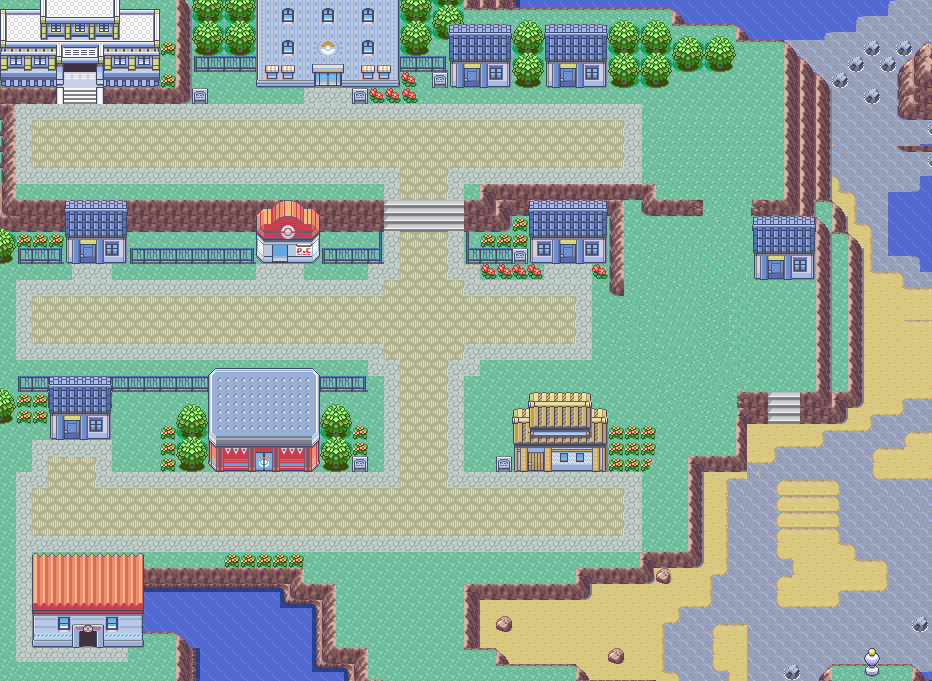
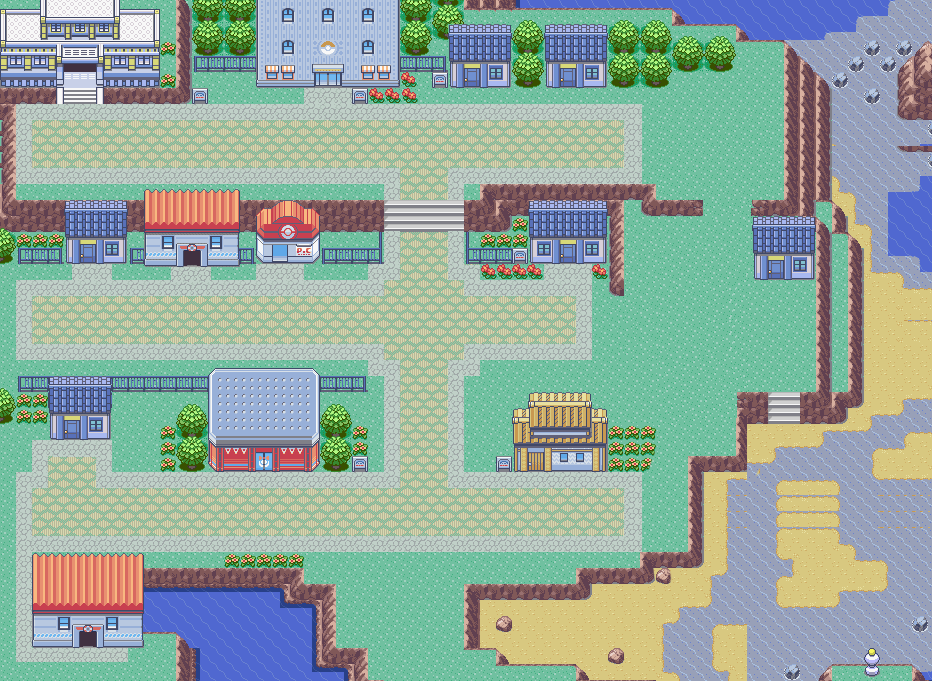
updated map, person walks to restA

Changed region(s): [[0.1556, 0.2775, 0.28, 0.4317]]

diff --git a/src/city/guis/CityGui.java b/src/city/guis/CityGui.java
@@ -34,6 +34,7 @@ import city.Government;
 import city.Scenario;
 import city.TimeManager;
 
+
 //Import Java utilities
 import javax.imageio.ImageIO;
 import javax.swing.*;
@@ -50,10 +51,12 @@ import java.util.Collections;
 import java.util.Date;
 import java.util.Vector;
 
+import restaurantA.*;
 
 public class CityGui extends JFrame implements ActionListener {
 
 	Restaurant tempRes;
+	RestaurantA tempResA;
 	Bank tempBan;
 	Apartment tempApa;
 	Market tempMar;
@@ -313,7 +316,7 @@ public class CityGui extends JFrame implements ActionListener {
 		createRestaurant("Norman's Restaurant", 257, 474);
 		createBank("Aleena's Bank - North", 73, 74);
 		createBank("Aleena's Bank - South", 16, 619);
-		createRestaurantA("Aleena Restaurant", 257, 474);
+		createRestaurantA("Aleena Restaurant", 183, 266);
 		createMarket("Aleena's Market", 280, 265);
 		createApartment("The Chris Apartment Complex", 319, 90);
 
@@ -407,7 +410,7 @@ public class CityGui extends JFrame implements ActionListener {
 				if ((x<314) && (y<468) && (x>210) && (y>370))
 				{
 					for (Building b: buildings){
-						if (b.getType() == buildingType.restaurant){
+						if (b.getType() == buildingType.restaurant && b.owner.equals("Norman")){
 							Restaurant r = (Restaurant) b;
 							r.setPaymentFund(GovernmentFunds);
 							tempRes = r;
@@ -433,7 +436,34 @@ public class CityGui extends JFrame implements ActionListener {
 					}
 				}
 
+				if ((x<239) && (y<264) && (x>145) && (y>190))
+				{
+					for (Building b: buildings){
+						if (b.getType() == buildingType.restaurant && b.owner.equals("Aleena")){
+							RestaurantA r = (RestaurantA) b;
+							//r.setPaymentFund(GovernmentFunds);
+							tempResA = r;
+							r.gui.setVisible(true);
+							cityGui.setAlwaysOnTop(false);
+							r.gui.setAlwaysOnTop(true);
+							r.gui.addWindowListener(new WindowAdapter() {
+								public void windowClosing(WindowEvent e) {
+									tempResA.gui.setAlwaysOnTop(false);
+									cityGui.setAlwaysOnTop(true);
+									cityGui.setAlwaysOnTop(false);
+									setState(Frame.NORMAL);
+								}
 
+								public void mouseEntered(MouseEvent e) {}
+								public void mouseExited(MouseEvent arg0) {}
+								public void mousePressed(MouseEvent arg0) {}
+								public void mouseReleased(MouseEvent arg0) {}
+
+							});
+						}
+
+					}
+				}
 
 				if ((x<398) && (y<85) && (x>257) && (y>0))
 				{
@@ -696,7 +726,7 @@ public class CityGui extends JFrame implements ActionListener {
 			restaurantA.RestaurantA r = new restaurantA.RestaurantA(rg, name);
 			rg.setRestaurant(r);
 			r.setEntrance(x,y);
-			//buildings.add(r);
+			buildings.add(r);
 	}
 
 	public void createBank(String name, int x, int y)

diff --git a/src/restaurantA/RestaurantA.java b/src/restaurantA/RestaurantA.java
@@ -5,6 +5,7 @@ import java.awt.Frame;
 import javax.swing.JFrame;
 
 
+
 //import restaurantA.ProducerConsumerMonitor;
 import restaurantA.gui.RestaurantGui;
 import restaurantA.gui.RestaurantPanel;
@@ -19,7 +20,10 @@ public class RestaurantA extends RestBase{
     public Coordinate location;
    // public ProducerConsumerMonitor theMonitor;
     public int numWaitersWorking = 0;
-	public String owner = "Aleena";
+	public Boolean hasHost = false;
+    public Boolean hasCook = false;
+    public Boolean hasCashier = false;
+    public int numWaiters = 0;
 	public RestaurantA(restaurantA.gui.RestaurantGui rg, String name)
     {
     	this.gui = rg;
@@ -33,6 +37,7 @@ public class RestaurantA extends RestBase{
         rg.setAlwaysOnTop(true);
         rg.setAlwaysOnTop(false);
         rg.setDefaultCloseOperation(JFrame.DO_NOTHING_ON_CLOSE);
+        owner = "Aleena";
       // theMonitor = new ProducerConsumerMonitor();
     }
 
@@ -43,55 +48,38 @@ public class RestaurantA extends RestBase{
 
 	@Override
 	public Boolean isOpen() {
-		// TODO Auto-generated method stub
-		return null;
+		return true;
 	}
 
-	@Override
 	public boolean needsHost() {
-		// TODO Auto-generated method stub
-		return false;
+		return !hasHost;
 	}
 
-	@Override
 	public void sethost() {
-		// TODO Auto-generated method stub
-		
+		hasHost = true;
 	}
 
-	@Override
 	public boolean needsCook() {
-		// TODO Auto-generated method stub
-		return false;
+		return !hasCook;
 	}
 
-	@Override
 	public void setCook() {
-		// TODO Auto-generated method stub
-		
+		hasCook = true;
 	}
 
-	@Override
 	public boolean needsCashier() {
-		// TODO Auto-generated method stub
-		return false;
+		return !hasCashier;
 	}
 
-	@Override
 	public void setCashier() {
-		// TODO Auto-generated method stub
-		
+		hasCashier = true;
 	}
 
-	@Override
 	public boolean needsWaiter() {
-		// TODO Auto-generated method stub
-		return false;
+		return (numWaiters < 2);
 	}
 
-	@Override
 	public void setWaiter() {
-		// TODO Auto-generated method stub
-		
+		numWaiters++;
 	}
 }

diff --git a/src/city/PersonAgent.java b/src/city/PersonAgent.java
@@ -959,7 +959,8 @@ public class PersonAgent extends Agent implements Person
 
 				//Status.getLocation() == location.outside && CheckRestOpen()) {
 				print("Scheduler realized the person wants to go to Restaurant");
-				GoToRestaurant();
+				Building r = findOpenBuilding(buildingType.restaurant);
+				GoToRestaurant(r);
 				return true;
 			}
 			//If you need to withdraw, and your destination is the bank, withdraw
@@ -1138,16 +1139,20 @@ public class PersonAgent extends Agent implements Person
 			restaurant = false;
 		
 		if (restaurant){
-			GoToRestaurant();
-			GoToRestaurantA(r);
-			//GoToRestaurantD();
-		//	GoToRestaurantC();
+			GoToRestaurant(r);
 		}
 		else{
 			homePurpose = "Cook";
 			GoHomeToDoX();
 		} 
 		
+	}
+	
+	public void GoToRestaurant(Building r){
+		if (r.owner.equals("Norman"))
+			GoToRestaurantN();
+		if (r.owner.equals("Aleena"))
+			GoToRestaurantA(r);
 	}
 
 	public boolean isHungry() {
@@ -1550,7 +1555,7 @@ public class PersonAgent extends Agent implements Person
 		c.setActivity(true);
 	}
 
-	public void GoToRestaurant()
+	public void GoToRestaurantN()
 	{
 		Restaurant r = null;
 		synchronized(buildings)
